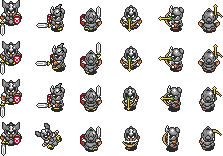
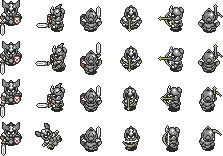
Prueba de colisiones y animación de personaje
Parece que hace patinaje sobre hielo

diff --git a/plantilla-juego/src/js/play_scene.js b/plantilla-juego/src/js/play_scene.js
@@ -1,13 +1,14 @@
 'use strict';
-var map;
-var layer;
   var PlayScene = {
   create: function () {
-    map = this.add.tilemap('map',32,32);
-    map.addTilesetImage('tileset');
-    layer = map.createLayer(0);
-    layer.resizeWorld();
-    map.setCollisionBetween(16,24);
+    this.game.physics.startSystem(Phaser.Physics.ARCADE);
+    this.game.stage.backgroundColor = '#787878';
+    this.map = this.game.add.tilemap('map',32,32);
+    this.map.addTilesetImage('tileset');
+    this.map.setCollisionBetween(0,23);
+    this.layer = this.map.createLayer(0);
+    this.layer.resizeWorld();
+    this.layer.debug = true;
    /* var monedo = this.game.add.sprite(this.game.world.centerX, this.game.world.centerY, 'monedo');
     monedo.anchor.setTo(0,0);
     monedo.scale.setTo(1,1);*/
@@ -18,41 +19,73 @@ var layer;
       this.sprite = sprite;
       this.velocity = speed;
     }
-    coso.prototype.moveY = function(speed)
+    function Player(sprite,speed)
+    {
+      this.sprite = sprite;
+      this.speed = speed;
+      this.direction = 0;
+      //this.cursors = this.game.input.keyboard.createCursorKeys();
+    }
+    Player.prototype.moveY = function(speed)
+    {
+      this.sprite.body.velocity.y += speed;
+    }
+    Player.prototype.moveX = function(speed)
+    {
+      this.sprite.body.velocity.x += speed;
+    }
+    /*coso.prototype.moveY = function(speed)
     {
       this.sprite.y += speed;
     }
     coso.prototype.moveX = function(speed)
     {
       this.sprite.x += speed;
-    }
+    }*/
     this.hero = this.game.add.sprite(this.game.world.centerX, this.game.world.centerY, 'player',5);
+    this.hero.anchor.setTo(0.5, 0.5);
     this.hero.animations.add('idle', [17],1,true);
+    this.hero.animations.add('runleft', [0,1,2,3,4,5,6,7],8,true);
+    this.hero.animations.add('runright', [8,9,10,11,12,13,14,15],8,true);
+    this.hero.animations.add('rundown', [16,17,18,19,20,21,22,23],8,true);
+    this.hero.animations.add('runup', [24,25,26,27,28,29,30,31],8,true);
+    this.physics.arcade.enable(this.hero);
+    this.camera.follow(this.hero);
     this.TextoSouls = this.game.add.sprite(this.game.world.centerX,this.game.world.centerY,'titlesouls');
     this.TextoSouls.anchor.setTo(0.5, 0.5);
     this.TextoSouls.scale.setTo(2.5,2.5);
-    this.cosa = new coso(this.TextoSouls, 15);
+    //this.cosa = new coso(this.hero, 15);
     this.cursors = this.game.input.keyboard.createCursorKeys();
+    this.playerino = new Player(this.hero,15);
+    this.game.physics.enable([this.hero]);
+   // this.game.physics.arcade.gravity.y = 250;
+    this.hero.body.collideWorldBounds = true;
+    this.hero.body.bounce.set(0.2);
   },
 
   update: function() {
-    this.cosa.sprite.rotation += 0.01;
+    this.physics.arcade.collide(this.hero,this.layer);
+
+    //this.cosa.sprite.rotation += 0.01;
     if (this.cursors.left.isDown)
     {
-      this.cosa.moveX(-this.cosa.velocity);
+      this.playerino.moveX(-10);
+      this.hero.animations.play('runleft');
     }
     else if (this.cursors.right.isDown)
     {
-      this.cosa.moveX(this.cosa.velocity);
+      this.playerino.moveX(10);
+      this.hero.animations.play('runright');
     }
-
     if (this.cursors.up.isDown)
     {
-      this.cosa.moveY(-this.cosa.velocity);
+      this.playerino.moveY(-10);
+      this.hero.animations.play('runup');
     }
     else if (this.cursors.down.isDown)
     {
-      this.cosa.moveY(this.cosa.velocity);
+      this.playerino.moveY(10);
+      this.hero.animations.play('rundown');
     }
 
     console.log(this.TextoSouls);

diff --git a/plantilla-juego/src/js/main.js b/plantilla-juego/src/js/main.js
@@ -26,8 +26,8 @@ var PreloaderScene = {
     this.game.load.image('titlesouls', 'images/TextoOldSouls.png');
     this.game.load.image('monedo', 'images/Monedas.png');
     this.game.load.spritesheet('player', 'images/SoldadoSouls.png',92, 114, 32);
-    this.load.tilemap('map', 'images/MapaPrueba.csv');
-    this.load.image('tileset', 'images/tileset.png');
+    this.game.load.tilemap('map', 'images/MapaPrueba.csv');
+    this.game.load.image('tileset', 'images/tileset.png');
   },
 
   create: function () {
